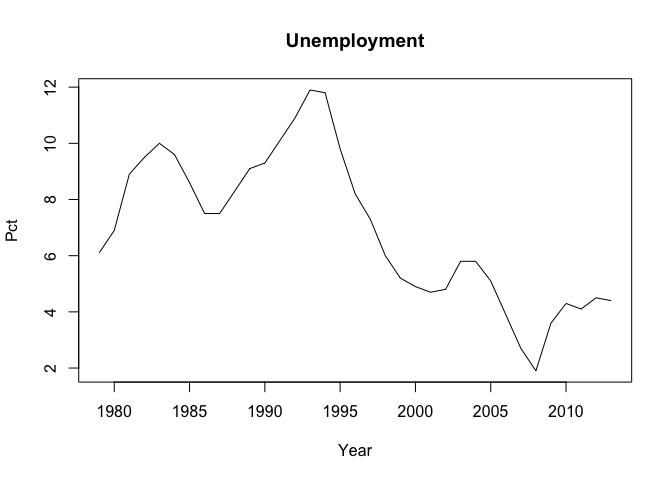
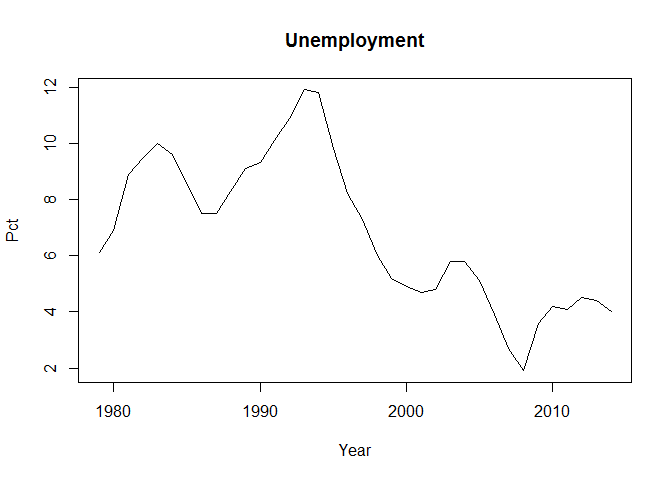
I now using :: instead of attaching. Cleaned exports and imports. Added man.

diff --git a/README.md b/README.md
@@ -56,7 +56,7 @@ aulaar_meta$basics
     ## [1] "Number"
     ## 
     ## $updated
-    ## [1] "2014-06-04T09:00:00"
+    ## [1] "2015-06-19T09:00:00"
 
 There's a table id, a short description, a unit description and when the table was updated.
 
@@ -88,9 +88,9 @@ str(aulaar_meta$values)
     ##  $ PERPCT:'data.frame':  2 obs. of  2 variables:
     ##   ..$ id  : chr [1:2] "L10" "L9"
     ##   ..$ text: chr [1:2] "Per cent of the labour force" "Unemployed (thousands)"
-    ##  $ Tid   :'data.frame':  35 obs. of  2 variables:
-    ##   ..$ id  : chr [1:35] "1979" "1980" "1981" "1982" ...
-    ##   ..$ text: chr [1:35] "1979" "1980" "1981" "1982" ...
+    ##  $ Tid   :'data.frame':  36 obs. of  2 variables:
+    ##   ..$ id  : chr [1:36] "1979" "1980" "1981" "1982" ...
+    ##   ..$ text: chr [1:36] "1979" "1980" "1981" "1982" ...
 
 ### Basic Query
 
@@ -107,7 +107,7 @@ aulaar_meta$basic_query
     ## [1] "L10"
     ## 
     ## $Tid
-    ## [1] "2013"
+    ## [1] "2014"
 
 Get data
 --------
@@ -121,11 +121,11 @@ aulaar <- dst_get_data(table = "AULAAR", KØN = "TOT", PERPCT = "L10", Tid = 201
 str(aulaar)
 ```
 
-    ## 'data.frame':    2 obs. of  4 variables:
-    ##  $ KØN   : chr  "KØN" "Total TOT"
-    ##  $ PERPCT: chr  "PERPCT" "Per cent of the labour force L10"
-    ##  $ TID   : chr  "TID" "2013"
-    ##  $ value : chr  "INDHOLD" "4.4"
+    ## 'data.frame':    1 obs. of  4 variables:
+    ##  $ KØN   : chr "Total"
+    ##  $ PERPCT: chr "Per cent of the labour force"
+    ##  $ TID   : POSIXct, format: "2013-01-01"
+    ##  $ value : num 4.4
 
 Let's use the basic\_query from the dst\_meta list to make our first query:
 
@@ -137,11 +137,11 @@ aulaar <- dst_get_data(table = "AULAAR",
 str(aulaar)
 ```
 
-    ## 'data.frame':    2 obs. of  4 variables:
-    ##  $ KØN   : chr  "KØN" "Total TOT"
-    ##  $ PERPCT: chr  "PERPCT" "Per cent of the labour force L10"
-    ##  $ TID   : chr  "TID" "2013"
-    ##  $ value : chr  "INDHOLD" "4.4"
+    ## 'data.frame':    1 obs. of  4 variables:
+    ##  $ KØN   : chr "Total"
+    ##  $ PERPCT: chr "Per cent of the labour force"
+    ##  $ TID   : POSIXct, format: "2014-01-01"
+    ##  $ value : num 4
 
 This is maybe not really what you want, so let's use the basic\_query to construct a new query that might be better. I still want to have the total and percentage unemployed, but I would like all the observations going back to 1979. I'll now construct the final request, query the StatBank and make a plot.
 
@@ -162,12 +162,6 @@ plot(x = aulaar$TID,
      type = "l")
 ```
 
-    ## Warning in xy.coords(x, y, xlabel, ylabel, log): NAs introduced by
-    ## coercion
-
-    ## Warning in xy.coords(x, y, xlabel, ylabel, log): NAs introduced by
-    ## coercion
-
 ![](README_files/figure-markdown_github/unnamed-chunk-9-1.png)
 
 If you want the complete timeseries you can write "\*" in the TID variable in the basic\_query or like this:
@@ -180,7 +174,7 @@ str(aulaar)
 ```
 
     ## 'data.frame':    36 obs. of  4 variables:
-    ##  $ KØN   : chr  "KØN" "Total TOT" "Total TOT" "Total TOT" ...
-    ##  $ PERPCT: chr  "PERPCT" "Per cent of the labour force L10" "Per cent of the labour force L10" "Per cent of the labour force L10" ...
-    ##  $ TID   : chr  "TID" "1979" "1980" "1981" ...
-    ##  $ value : chr  "INDHOLD" "6.1" "6.9" "8.9" ...
+    ##  $ KØN   : chr  "Total" "Total" "Total" "Total" ...
+    ##  $ PERPCT: chr  "Per cent of the labour force" "Per cent of the labour force" "Per cent of the labour force" "Per cent of the labour force" ...
+    ##  $ TID   : POSIXct, format: "1979-01-01" "1980-01-01" ...
+    ##  $ value : num  6.1 6.9 8.9 9.5 10 9.6 8.6 7.5 7.5 8.3 ...
